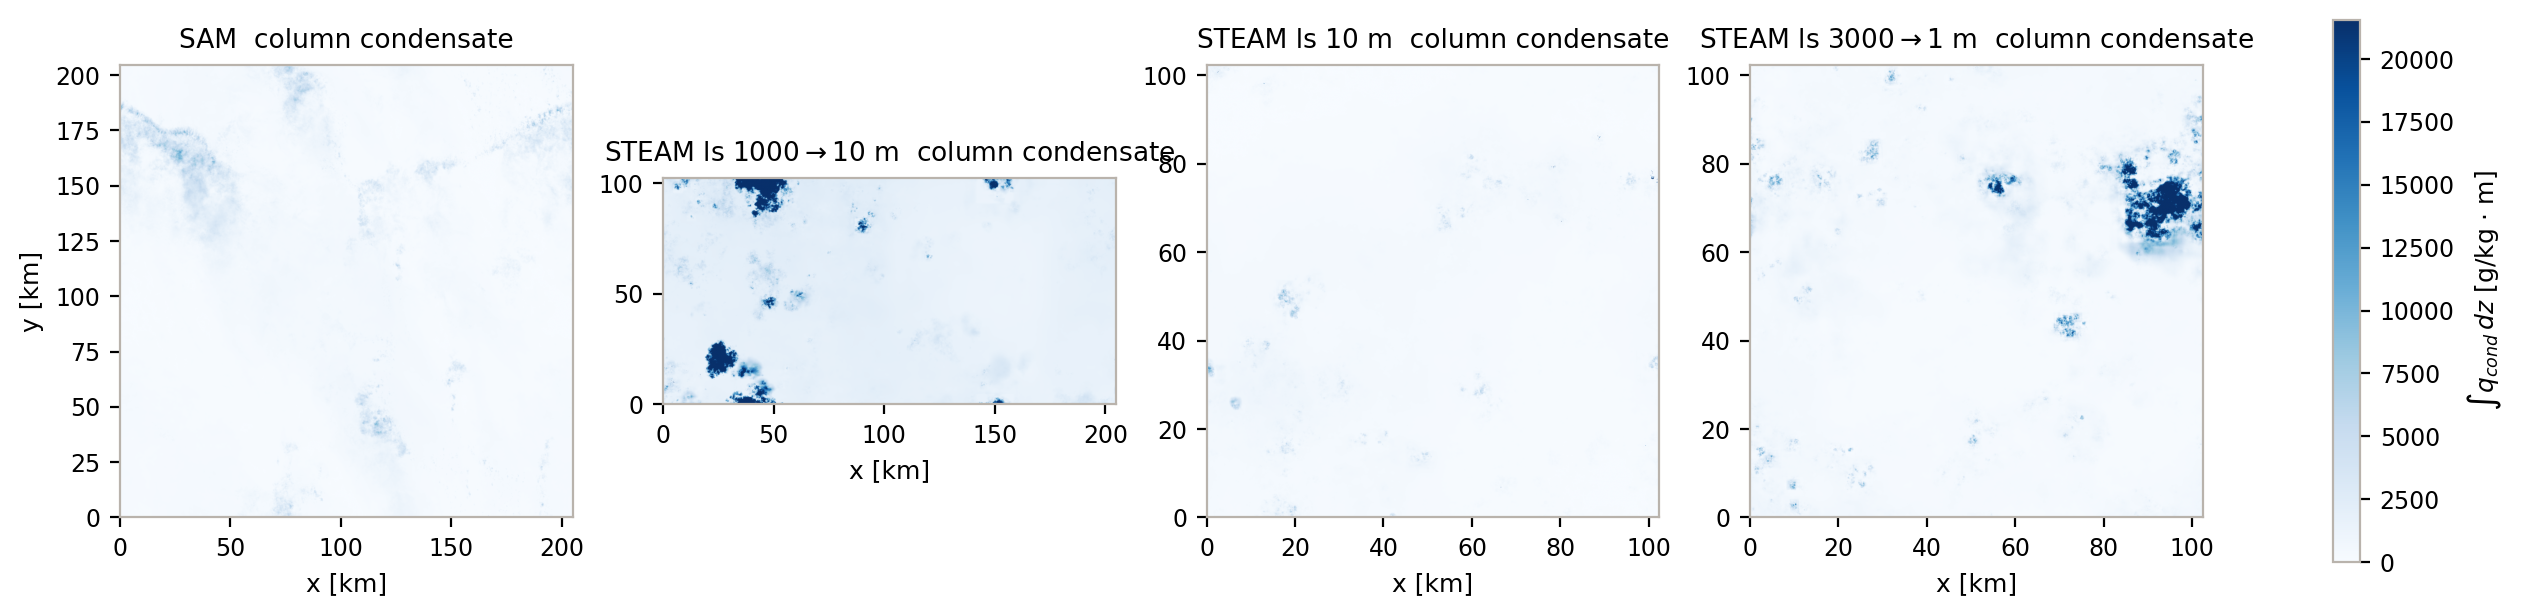
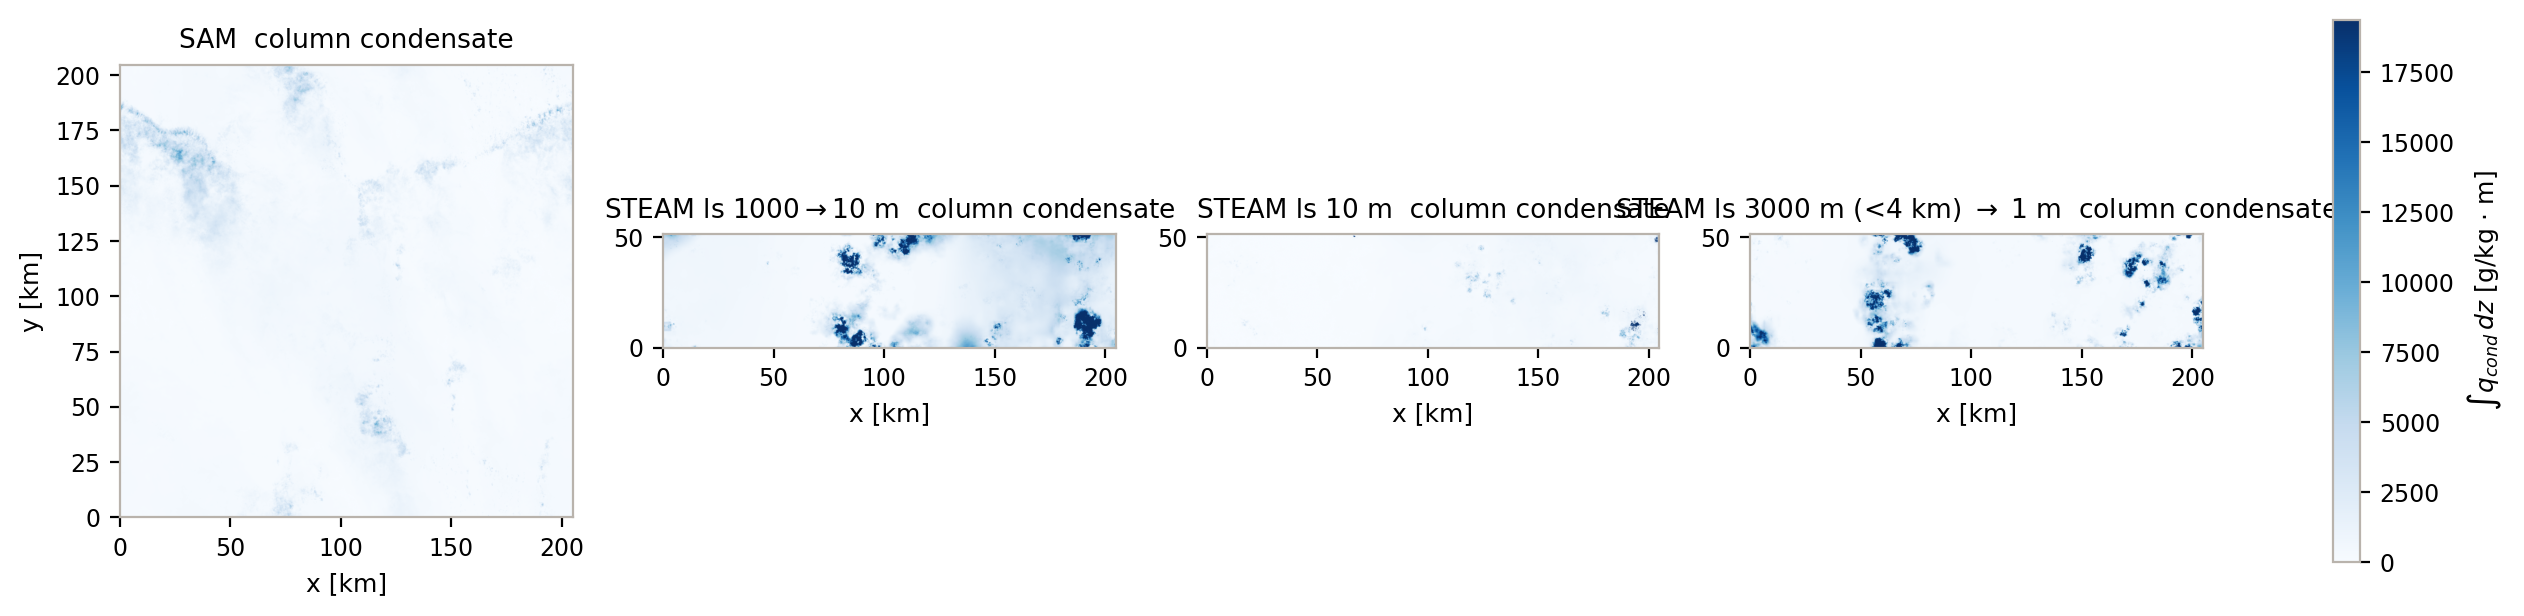
firstlook: 2048x512 strips, outer 102.4 km; broken ls profile; mean-profile check
Strip domains (y = half the outer scale) via steam's new narrow-extent
support. ls3000_1 case now constant 3000 m below 4 km then log-linear to
1 m at 20 km (cloudyview wants large low-level spheroscale). New
mean-profiles sanity figure. Best mid-level qt slopes so far (H 0.44/0.36
at 5/9 km); h still scale-flat; high-level CF pegging returns.

diff --git a/firstlook/run_twpice_ls3000_1.py b/firstlook/run_twpice_ls3000_1.py
@@ -1,14 +1,11 @@
 #!/usr/bin/env python3
-"""Steep-spheroscale variant of the canonical TWPICE STEAM run.
+"""Large-low-level-spheroscale variant of the canonical TWPICE STEAM run.
 
-Identical to run_twpice.py except the spheroscale profile: log-linear from
-3000 m at the surface to 1 m at the 20 km top (one decade per ~5.7 km;
-~440 m at 5 km, ~65 m at 10 km, ~9.7 m at 15 km). Steeper decay than the
-canonical 1000 -> 10 m case, with a larger boundary-layer spheroscale.
-
-Grid follows the ls10 lesson: the fine spheroscale aloft deepens the finest
-z-grid, so run at 1024 x 1024 (one outer-scale tile per direction) to stay
-inside host memory.
+Identical to run_twpice.py except the spheroscale profile: constant 3000 m
+from the surface to 4 km, then log-linear down to 1 m at the 20 km top
+(one decade per ~2 km above the break: ~1090 m at 6 km, ~130 m at 10 km,
+~4 m at 17 km). Motivated by cloudyview renders wanting much larger
+low-level spheroscale.
 
 RUN SANDBOXED (see run_twpice.py):
 
@@ -27,8 +24,9 @@ from steam.constants import specific_heat_dry_air as cp
 
 PROFILE_DZ = 50.0
 DOMAIN_HEIGHT = 20000.0
-SPHEROSCALE_SURFACE = 3000.0
-SPHEROSCALE_TOP = 1.0
+SPHEROSCALE_LOW = 3000.0     # constant below the breakpoint
+BREAK_HEIGHT = 4000.0        # top of the constant layer
+SPHEROSCALE_TOP = 1.0        # at the domain top (log-linear above the break)
 SEED = 20260714
 OUTPUT = "steam_twpice_ls3000_1.nc"
 
@@ -43,8 +41,11 @@ z_uniform = np.arange(0.0, DOMAIN_HEIGHT + PROFILE_DZ, PROFILE_DZ)
 h_profile = np.interp(z_uniform, z_sam, h_sam)
 qt_profile = np.interp(z_uniform, z_sam, qt_sam)
 
-spheroscale = SPHEROSCALE_SURFACE * (
-    SPHEROSCALE_TOP / SPHEROSCALE_SURFACE) ** (z_uniform / DOMAIN_HEIGHT)
+# Constant SPHEROSCALE_LOW below BREAK_HEIGHT; log-linear down to
+# SPHEROSCALE_TOP at the domain top above it.
+above = np.clip(
+    (z_uniform - BREAK_HEIGHT) / (DOMAIN_HEIGHT - BREAK_HEIGHT), 0.0, 1.0)
+spheroscale = SPHEROSCALE_LOW * (SPHEROSCALE_TOP / SPHEROSCALE_LOW) ** above
 
 h_min = h_profile.min() - 10 * cp
 h_max = h_profile.max() + 10 * cp
@@ -52,7 +53,7 @@ h_max = h_profile.max() + 10 * cp
 started = time.perf_counter()
 simulate(
     h_profile, qt_profile,
-    nx=1024, ny=1024, dx=100.0, dy=100.0,
+    nx=2048, ny=512, dx=100.0, dy=100.0,
     outer_scale=102400.0,
     spheroscale=spheroscale,
     anisotropy="piecewise_isotropic_below_spheroscale",

diff --git a/firstlook/make_figures.py b/firstlook/make_figures.py
@@ -29,7 +29,7 @@ CASES = [  # (npz tag, label, color)
     ("sam", "SAM", "#C2410C"),
     ("steam", "STEAM ls 1000$\\to$10 m", "#1268A3"),
     ("steam_ls10", "STEAM ls 10 m", "#3FA34D"),
-    ("steam_ls3000_1", "STEAM ls 3000$\\to$1 m", "#7C3AAD"),
+    ("steam_ls3000_1", "STEAM ls 3000 m (<4 km) $\\to$ 1 m", "#7C3AAD"),
 ]
 data = [(np.load(f"{tag}_stats.npz"), label, color)
         for tag, label, color in CASES]
@@ -54,6 +54,20 @@ for ax in axes:
 axes[0].legend(fontsize=7)
 fig.tight_layout()
 fig.savefig("figs/cloud_fraction.png")
+plt.close(fig)
+
+# ── (a2) mean profiles — sanity check that STEAM preserves the input state ──
+fig, axes = plt.subplots(1, 2, figsize=(6.4, 4.6), sharey=True)
+for d, label, color in data:
+    axes[0].plot(d["h_mean"] / 1004.0, zkm(d), color=color, lw=1.4, label=label)
+    axes[1].plot(d["qt_mean"] * 1000, zkm(d), color=color, lw=1.4)
+axes[0].set(xlabel="mean $h/c_p$ [K]", ylabel="z [km]", ylim=(0, Z_TOP_KM))
+axes[1].set(xlabel="mean $q_t$ [g/kg]")
+for ax in axes:
+    ax.grid(True, alpha=0.6)
+axes[0].legend(fontsize=7)
+fig.tight_layout()
+fig.savefig("figs/mean_profiles.png")
 plt.close(fig)
 
 # ── (b) variance and skewness profiles ───────────────────────────────────────

diff --git a/firstlook/vertical_fluctuations.py b/firstlook/vertical_fluctuations.py
@@ -27,7 +27,8 @@ from steam.constants import specific_heat_dry_air as cp
 
 SAM = "/run/media/thomas/Expansion/hydrodynamic-model-output/SAM-TWPICE"
 STAMP = "0000003450"
-BANDS_M = ((0.0, 5000.0), (5000.0, 10000.0), (10000.0, 15000.0))
+BANDS_M = ((0.0, 5000.0), (5000.0, 10000.0), (10000.0, 15000.0),
+           (0.0, 15000.0))
 
 scaleinvariance.set_backend("torch")
 scaleinvariance.set_device("cuda")
@@ -134,12 +135,12 @@ def figure():
         ("sam", "SAM", "#C2410C"),
         ("steam", "STEAM ls 1000$\\to$10 m", "#1268A3"),
         ("steam_ls10", "STEAM ls 10 m", "#3FA34D"),
-        ("steam_ls3000_1", "STEAM ls 3000$\\to$1 m", "#7C3AAD"),
+        ("steam_ls3000_1", "STEAM ls 3000 m (<4 km) $\\to$ 1 m", "#7C3AAD"),
     ]
     data = [(np.load(f"vertical_fluct_{tag}.npz"), label, color)
             for tag, label, color in cases]
 
-    fig, axes = plt.subplots(2, 3, figsize=(10.5, 6.4))
+    fig, axes = plt.subplots(2, len(BANDS_M), figsize=(3.5 * len(BANDS_M), 6.4))
     for row, name, symbol in [(0, "qt", "q_t"), (1, "h", "h")]:
         for col, (z_lo, z_hi) in enumerate(BANDS_M):
             ax = axes[row, col]

diff --git a/firstlook/run_twpice.py b/firstlook/run_twpice.py
@@ -15,7 +15,7 @@ RUN SANDBOXED — a host OOM here once killed the whole login session. Launch as
 
 so the kernel kills only this run, never the session. 28G covers the guarded
 8-field peak (21.4 GiB at 2048 x 1024 x 342) plus torch/CUDA overhead. The
-full-scale option (ny=2048, outer_scale=204800.0, peak 42.8 GiB, MemoryMax=48G)
+full-scale option (ny=2048, outer_scale=102400.0, peak 42.8 GiB, MemoryMax=48G)
 fits only when nothing else heavy runs on the 60 GiB host.
 """
 
@@ -60,7 +60,7 @@ h_max = h_profile.max() + 10 * cp
 started = time.perf_counter()
 simulate(
     h_profile, qt_profile,
-    nx=2048, ny=1024, dx=100.0, dy=100.0,
+    nx=2048, ny=512, dx=100.0, dy=100.0,
     outer_scale=102400.0,
     spheroscale=spheroscale,
     anisotropy="piecewise_isotropic_below_spheroscale",

diff --git a/firstlook/run_twpice_ls10.py b/firstlook/run_twpice_ls10.py
@@ -54,7 +54,7 @@ h_max = h_profile.max() + 10 * cp
 started = time.perf_counter()
 simulate(
     h_profile, qt_profile,
-    nx=1024, ny=1024, dx=100.0, dy=100.0,
+    nx=2048, ny=512, dx=100.0, dy=100.0,
     outer_scale=102400.0,
     spheroscale=spheroscale,
     anisotropy="piecewise_isotropic_below_spheroscale",
